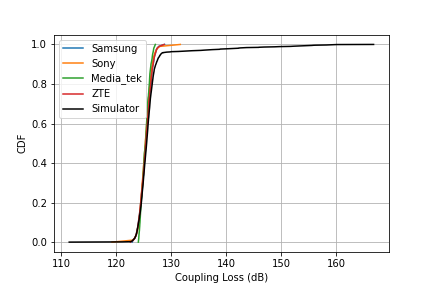
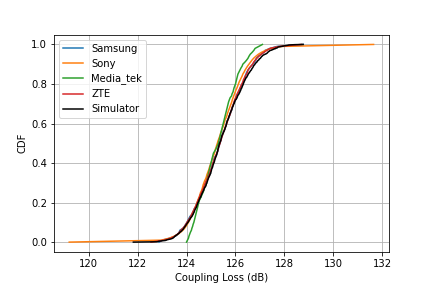
new update

diff --git a/comput_SINR_in_intersection.py b/comput_SINR_in_intersection.py
@@ -13,21 +13,25 @@ from tqdm import tqdm
 R_E = 6371e3 # [m] radius of Earth
 HPBW = 4.4217 #[deg] half power beam width 
 sate_height = 600e3 #[m] satellite height for LEO
-theta = 0*np.pi/180 # [rad] longtitude
-n_ue_per_cell = 6 # number of UE per cell
+theta = 0*np.pi/180 # [rad] longtitude, 0: equator 
+n_ue_per_cell = 1 # number of UE per cell
 
 alpha_min = 30*np.pi/180 # [rad] minimum elevation angle in radius
 
 N_s = 30 # number of satellite per orbit
 N_o = 17 # number of orbit 
-y = 2*np.pi*R_E/N_s # vertical width between satellites
+
+y = 2*np.pi*R_E/N_s # vertical length between satellites
 x = np.pi*R_E*np.cos(theta)/N_o # horizontal width between satellites
 
 # radius of footprint satesfying minimum elevation angle=30
 R_footprint = R_E *( np.pi/2 - np.arcsin(R_E*np.cos(alpha_min)/(R_E+sate_height)) - alpha_min)
-ABS = np.sqrt(3) *np.sin(np.deg2rad(HPBW)/2)*sate_height # adjacent beamwidth
-beam_radius = ABS/(2*np.cos(np.pi/6)) # beam radius 
-n_tier = np.ceil(R_footprint/ABS) +1 # number of tier to cover the whole area of footprint
+# adjacent beamwidth
+ABS = np.sqrt(3) *np.sin(np.deg2rad(HPBW)/2)*sate_height
+# beam radius
+beam_radius = ABS/(2*np.cos(np.pi/6))
+# number of tier to cover the whole area of footprint 
+n_tier = np.ceil(R_footprint/ABS) +1 
 n_tier = int(n_tier)
 
 # suppose we create one footprint in the center (0,0)
@@ -52,10 +56,8 @@ for i in range(1,ue_inter_sec.shape[0]):
 center_points = np.array(center_points)[ind_in_intersec]
 #center_points = np.array(center_points)
 
-
-
-##################################################################################3
-
+##################################################################################
+########################### Generate Channel #####################################
 f_c = 2e9 # carrier frequency
 scenario = 'rural'
 EIRP_density = 34 # dBW/MHz
@@ -77,7 +79,7 @@ subcarrier_spacing = 15e3 # sub-carrier spacing
 total_n_carrier = np.floor(BW/subcarrier_spacing)
 freq_list = np.arange(-np.floor(total_n_carrier/2),
                    np.floor(total_n_carrier/2))*15e3 # 10MHz
-# 4 satellite locations
+# 4-satellites locations
 sat_locations = np.array([[0,0,sate_height],[0,y,sate_height]
                           ,[x,y/2,sate_height],[-x,y/2,sate_height]])
 
@@ -106,13 +108,14 @@ for j in range(2):
     # (n_link, n_beams, n_frequencies)
     for link_idx in range(len(H[45])): 
     # for each link, compute SINR per sub-carrier
-        h_45, h_n_45 = 0,0
+        
         # compute chanel-frequency response corresponding to each subcarrier
         #associated_beam_idx = associ_indices[link_idx]
         power_list = []
         for beam_idx in range(sat_beam_directions.shape[0]):
             H = H_list[beam_idx]
             delay = delay_list[beam_idx]
+            h_45, h_n_45 = 0,0
             for cluster_idx in range(len(H[45][link_idx])):
                 h_45 = h_45 + H[45][link_idx][cluster_idx]*np.exp(-1j*2*np.pi*freq_list*np.array(delay[45][link_idx][cluster_idx]))
                 h_n_45 = h_n_45 + H[-45][link_idx][cluster_idx]*np.exp(-1j*2*np.pi*freq_list*np.array(delay[-45][link_idx][cluster_idx]))
@@ -124,8 +127,10 @@ for j in range(2):
     H_n_45_dict[j] = h_n_45_list
     delay_dict[j] = delay_list
     
+
 ########################################################################################################
-############################## SINR Computation ########################################################
+############################## SINR Computation for Opne Loop MIMO ########################################################
+# create random beamforming vector across frequency domain
 
 vec_list = [1,-1,1j, -1j]
 precoder_list = []
@@ -135,13 +140,12 @@ for i in range(4):
             precoder_list.append([vec_list[i], vec_list[j]])
 
 SINR_avg_list = []
-for iter_ in range(3):
+for iter_ in range(1):
     for link_idx in tqdm(range(ue_inter_sec_new.shape[0])):
-        #serv_beam_idx = associ_ind_dict[0][link_idx]
+        
         serv_beam_idx = int(np.floor(link_idx/n_ue_per_cell))
         itf_f =0 
         rx_power_f = 0
-        #H_serv = []
         
         # suppose 10 cells are served simultaneously by two satellites
         serving_ind = np.random.choice(np.arange(ue_inter_sec.shape[0]),10)
@@ -154,14 +158,15 @@ for iter_ in range(3):
             h_serv_n_45_2 = H_n_45_dict[1][link_idx,serv_beam_idx,f_idx]      
             
             H_serv = np.array([[h_serv_45_1, h_serv_45_2],[h_serv_n_45_1, h_serv_n_45_2]])
-            #w_p = np.array([1,1]) # precoder for one stream
+            
+            # precoder for one layer
             prg_idx = f_idx%4
             w_p = precoder_list[prg_idx%12]
-            
+            #w_p = [1, 1]
             h_serv = H_serv.dot(w_p)
             
             h_itf_mat = np.zeros((2,2),dtype = complex)
-            for beam_idx in serving_ind:
+            for beam_idx in range(len(ind_in_intersec)):
                 if beam_idx != serv_beam_idx:
                     
                     h_itf_45_1 = H_45_dict[0][link_idx,beam_idx,f_idx] 
@@ -171,43 +176,45 @@ for iter_ in range(3):
                     h_itf_n_45_2 = H_n_45_dict[1][link_idx,beam_idx,f_idx]
                     H_itf = np.array([[h_itf_45_1, h_itf_45_2],[h_itf_n_45_1, h_itf_n_45_2]])
                     
-                    prg_idx = f_idx%4
+                    prg_idx = f_idx//4
                     w_p = precoder_list[prg_idx%12]
-                    
+                    #w_p = [1,1]
                     h_itf = H_itf.dot(w_p)
                     h_itf_mat += np.outer(h_itf, np.conjugate(h_itf).T)
             
             #w_c = h_serv/np.linalg.norm(h_serv) # matched filter combiner 
-            A= np.linalg.inv(np.eye(2)*noise_power + Tx_power_lin*h_itf_mat)
+            # MMSE receiver
+            A = np.linalg.inv(np.eye(2)*noise_power + Tx_power_lin*h_itf_mat)
             w_c = np.conjugate(h_serv).dot(A)
             w_c = w_c/np.linalg.norm(w_c)
             
             rx_power_f += np.abs(np.conjugate(w_c).dot(h_serv))**2
             itf = 0
             
-            
-            
             for beam_idx in serving_ind:
                 if beam_idx != serv_beam_idx:
-                    
+                    # create interference channel shape = (2, 2)
                     h_itf_45_1 = H_45_dict[0][link_idx,beam_idx,f_idx] 
                     h_itf_n_45_1 = H_n_45_dict[0][link_idx,beam_idx,f_idx]
-                    
                     h_itf_45_2 = H_45_dict[1][link_idx,beam_idx,f_idx] 
                     h_itf_n_45_2 = H_n_45_dict[1][link_idx,beam_idx,f_idx]
                     H_itf = np.array([[h_itf_45_1, h_itf_45_2],[h_itf_n_45_1, h_itf_n_45_2]])
                     
-                    prg_idx = f_idx%4
+                    prg_idx = f_idx//4
                     w_p = precoder_list[prg_idx%12]
-                    
+                    # compute interference 
                     h_itf = H_itf.dot(w_p)
                     itf += np.abs(np.conjugate(w_c).dot(h_itf))**2
                     
             itf_f += itf
-            
+        # take average     
         rx_power_avg = rx_power_f/len(freq_list)
         itf_power_avg = itf_f/len(freq_list)
-        
         SINR_avg_list.append(10*np.log10(Tx_power_lin*rx_power_avg
                                          /(Tx_power_lin*itf_power_avg+noise_power)))
-plt.plot(np.sort(SINR_avg_list), np.linspace(0,1,len(SINR_avg_list)))
+        
+plt.figure()
+plt.plot(np.sort(SINR_avg_list), np.linspace(0,1,len(SINR_avg_list)),'r', label = 'with precoder cycling')
+#plt.plot(np.sort(SINR_avg_list_no_precoder), np.linspace(0,1,len(SINR_avg_list)),'k', label = 'without precoder cycling')
+plt.legend()
+plt.grid()

diff --git a/SINR_computation.py b/SINR_computation.py
@@ -35,14 +35,15 @@ sat_ant_diameter = 2 # [m], note that element gains are related to radius of sat
 beam_diameter = np.tan(np.deg2rad(HPBW)/2)*sat_height*2 # [m], beam diameter = height*sin(HPBW/2)*2*cos(30) = height *ABS
 beam_radius = beam_diameter/2
 
-n_ue_per_cell = 50
-ue_location, center_point_list,_ = create_hexagonal_grid(3, beam_radius, 
+n_ue_per_cell = 10
+ue_location, center_point_list,_ = create_hexagonal_grid(5, beam_radius, 
                                                          n_ue_per_cell=n_ue_per_cell)
 
 ue_location = np.array(ue_location).reshape(-1,3)
 center_points_hex_cells_xyz = np.array(center_point_list)
 
 sat_location = np.array([[0,0, sat_height]])
+
 sat_beam_directions = center_points_hex_cells_xyz - sat_location
 
 CL_list = np.array([])
@@ -54,7 +55,7 @@ total_n_carrier = np.floor(BW/subcarrier_spacing)
 #f_list = np.arange(-330,330)*15e3 # 10MHz
 
 f_list = np.arange(-np.floor(total_n_carrier/2),
-                   np.floor(total_n_carrier/2))*15e3 # 10MHz
+                   np.floor(total_n_carrier/2))*15e3 + f_c # 10MHz
 chan_instant_list = []
 
 for i in tqdm(range(sat_beam_directions.shape[0])):    
@@ -94,13 +95,15 @@ h_n_45_list = np.zeros(shape=[len(H[45]),len(chan_instant_list), len(f_list)], d
 # (n_link, n_beams, n_frequencies)
 for link_idx in range(len(H[45])): 
 # for each link, compute SINR per sub-carrier
-    h_45, h_n_45 = 0,0
+    
     # compute chanel-frequency response corresponding to each subcarrier
     associated_beam_idx = associ_indices[link_idx]
     power_list = []
     for beam_idx in range(len(chan_instant_list)):
         H = H_list[beam_idx]
         delay = delay_list[beam_idx]
+        h_45 = 0
+        h_n_45 =0
         for cluster_idx in range(len(H[45][link_idx])):
             h_45 = h_45 + H[45][link_idx][cluster_idx]*np.exp(-1j*2*np.pi*f_list*np.array(delay[45][link_idx][cluster_idx]))
             h_n_45 = h_n_45 + H[-45][link_idx][cluster_idx]*np.exp(-1j*2*np.pi*f_list*np.array(delay[-45][link_idx][cluster_idx]))
@@ -111,22 +114,23 @@ for link_idx in range(len(H[45])):
 SINR_avg_list = []    
 for link_idx in range(len(H[45])):
     serv_beam_idx = associ_indices[link_idx]
-    itf_f =0 
+    #serv_beam_idx = int(np.floor(link_idx/10))
+   # print(serv_beam_idx)
+    itf_f =0
     rx_power_f = 0
     
     for f_idx in range(len(f_list)):
         h_serv1 = h_45_list[link_idx,serv_beam_idx,f_idx] 
-        h_serv2 = h_n_45_list[link_idx,serv_beam_idx,f_idx]      
+        h_serv2 = h_n_45_list[link_idx,serv_beam_idx,f_idx]
         w = [h_serv1, h_serv2]
         w = w/np.linalg.norm(w)
-        rx_power_f += np.linalg.norm([h_serv1, h_serv2])**2    
+        rx_power_f += np.linalg.norm([h_serv1, h_serv2])**2
         itf = 0
         for beam_idx in range(len(chan_instant_list)):
             if beam_idx != serv_beam_idx:
                 h_itf1 = h_45_list[link_idx,beam_idx,f_idx] 
                 h_itf2 = h_n_45_list[link_idx,beam_idx,f_idx] 
-                itf += abs(np.dot(np.conj(w), [h_itf1, h_itf2]))**2
-                
+                itf += abs(np.dot(np.conj(w), [h_itf1, h_itf2]))**2                
         itf_f += itf
         
     rx_power_avg = rx_power_f/len(f_list)
@@ -135,4 +139,8 @@ for link_idx in range(len(H[45])):
     SINR_avg_list.append(10*np.log10(Tx_power_lin*rx_power_avg
                                      /(Tx_power_lin*itf_power_avg+noise_power)))
 
-plt.plot(np.sort(SINR_avg_list), np.linspace(0,1,len(SINR_avg_list)))
+# outside tiers are used only for wrap-around mechanism
+# we only consider UEs deployed in 19 center cells, inside 3 tiers
+plt.plot(np.sort(SINR_avg_list[:19*n_ue_per_cell]), 
+         np.linspace(0,1,len(SINR_avg_list[:19*n_ue_per_cell])))
+plt.grid()

diff --git a/get_antenna_field_patterns.py b/get_antenna_field_patterns.py
@@ -26,15 +26,15 @@ def GCS_LCS_conversion(rot_angle:dict(), theta:list(), phi:list()):
     theta_prime = np.arccos(np.cos(beta)*np.cos(gamma)*np.cos(theta) + 
                             (np.sin(beta)*np.cos(gamma)*np.cos(phi-alpha) - 
                              np.sin(gamma)*np.sin(phi-alpha))*np.sin(theta)) #7.1-7
-    a_jb = (np.cos(beta)*np.sin(theta)*np.cos(phi-alpha) - np.sin(beta)*np.cos(theta))\
-        +1j*(np.cos(beta)*np.sin(gamma)*np.cos(theta) 
+    a_jb = (np.cos(beta)*np.sin(theta)*np.cos(phi-alpha) - np.sin(beta)*np.cos(theta)\
+            +1j*(np.cos(beta)*np.sin(gamma)*np.cos(theta)
              + (np.sin(beta)*np.sin(gamma)*np.cos(phi-alpha) 
-                + np.cos(gamma)*np.sin(phi-alpha))*np.sin(theta))
+                + np.cos(gamma)*np.sin(phi-alpha))*np.sin(theta)))
     phi_prime = np.angle(a_jb) # 7.1-8
     
     a_jb2 = (np.sin(gamma)*np.cos(theta)*np.sin(phi-alpha) + np.cos(gamma)*
-             (np.cos(beta)*np.sin(theta) - np.sin(beta)*np.cos(theta)*np.cos(phi-alpha)))\
-        + 1j*(np.sin(gamma)*np.cos(phi-alpha) + np.sin(beta)*np.cos(gamma)*np.sin(phi-alpha))
+             (np.cos(beta)*np.sin(theta) - np.sin(beta)*np.cos(theta)*np.cos(phi-alpha))\
+        + 1j*(np.sin(gamma)*np.cos(phi-alpha) + np.sin(beta)*np.cos(gamma)*np.sin(phi-alpha)))
     Psi = np.angle(a_jb2) # 7.1-15
     
     # return local angles and rotation angle
@@ -49,7 +49,7 @@ def sat_antenna_power_pattern(theta:list(), radius:float, f_c:float=2e9):
     if np.ndim(theta) !=1:
         theta = np.squeeze(theta)
     k = 2*np.pi*f_c/sc.speed_of_light
-   
+    
     g = np.zeros(len(theta))
     g[theta==0] = 1
     y = sp.jv(1, k*radius*np.sin(theta[theta !=0]))
@@ -91,6 +91,7 @@ def get_sat_antenna_field_pattern(theta:list(), phi:list(),
     beam_direction = beam_direction/np.linalg.norm(beam_direction)
     # get angle between departure ray and boresight direction of satelliet antenna
     theta = np.arccos(xyz_array.T.dot(beam_direction))
+    
     g = sat_antenna_power_pattern(theta, radius, f_c)
     # relationship between power pattern and field pattern 
     # g = |F_theta|^2 + |F_phi|^2 # 3GPP 38.901, 7.3.2
@@ -122,7 +123,7 @@ def get_ue_antenna_field_pattern(theta:list(), phi:list(), rot_angle:dict()
     # with a certain slant angle
     rot_angle2 = dict()
     rot_angle2['alpha'] =0
-    rot_angle2['beta'] = slant_angle
+    rot_angle2['beta'] =  slant_angle
     rot_angle2['gamma'] = 0
     local_angle2, Psi_prime2 = GCS_LCS_conversion(rot_angle2, theta_prime, phi_prime)
     

diff --git a/sat_three_gpp_chan_model.py b/sat_three_gpp_chan_model.py
@@ -225,7 +225,7 @@ class sat_three_gpp_channel_model(object):
             mu_DS, sig_DS, mu_ASD, sig_ASD, mu_ASA, sig_ASA, \
             mu_ZSA, sig_ZSA, mu_ZSD, sig_ZSD, mu_K, sig_K  = spread_matrix[:,i]
             sig_SF_LOS, sig_SF_NLOS,_ = shadow_CL_table[i]
-     
+            
             # NOTE 8 from 3GPP 38.811 6.7.2
             # For satellite (GEO/LEO), the departure angle spreads are zeros, i.e., 
             # mu_asd and mu_zsd = -inf, -inf
@@ -248,6 +248,7 @@ class sat_three_gpp_channel_model(object):
                 # Note that SF and K are in dB-scale, and others are in linear scale
                 DS = 10**(mu_DS + sig_DS*sf_k_ds_asd_asa_zsd_zsa[2])
                 K = 10**(0.1*(mu_K + sig_K*sf_k_ds_asd_asa_zsd_zsa[1])) # dB -> linear
+                
                 SF = mu_SF + sig_SF_LOS *sf_k_ds_asd_asa_zsd_zsa[0] # keep dB-scale         
                 ASD = 10**(mu_ASD + sig_ASD*sf_k_ds_asd_asa_zsd_zsa[3])
                 ASA = 10**(mu_ASA + sig_ASA*sf_k_ds_asd_asa_zsd_zsa[4])
@@ -526,6 +527,7 @@ class sat_three_gpp_channel_model(object):
                             ,'beta':np.random.uniform(0,360, 1)*np.pi/180,
                             'gamma':np.random.uniform(0,360, 1)*np.pi/180}
                
+               
                n_rays, n_clusters = self.angle_data[i]['AOA_cluster_rays'].shape
                theta_ZOA, phi_AOA = self.angle_data[i]['ZOA_cluster_rays'], self.angle_data[i]['AOA_cluster_rays']
                theta_ZOD, phi_AOD = self.angle_data[i]['ZOD_cluster_rays'], self.angle_data[i]['AOD_cluster_rays']
@@ -652,6 +654,7 @@ class sat_three_gpp_channel_model(object):
                    H_n_cluster[0] = np.sqrt(K/(K+1))*H_los + np.sqrt(1/(K+1))*H_n_cluster[0]
                    
                # step 12: apply pathloss and shadowing for the channel coefficients
+               self.path_loss[i] += np.random.normal(0,1)*self.SF_list[i]
                path_loss_lin_i = 10**(-0.05*self.path_loss[i])
                H_list.append(path_loss_lin_i* np.array(H_n_cluster))
                
